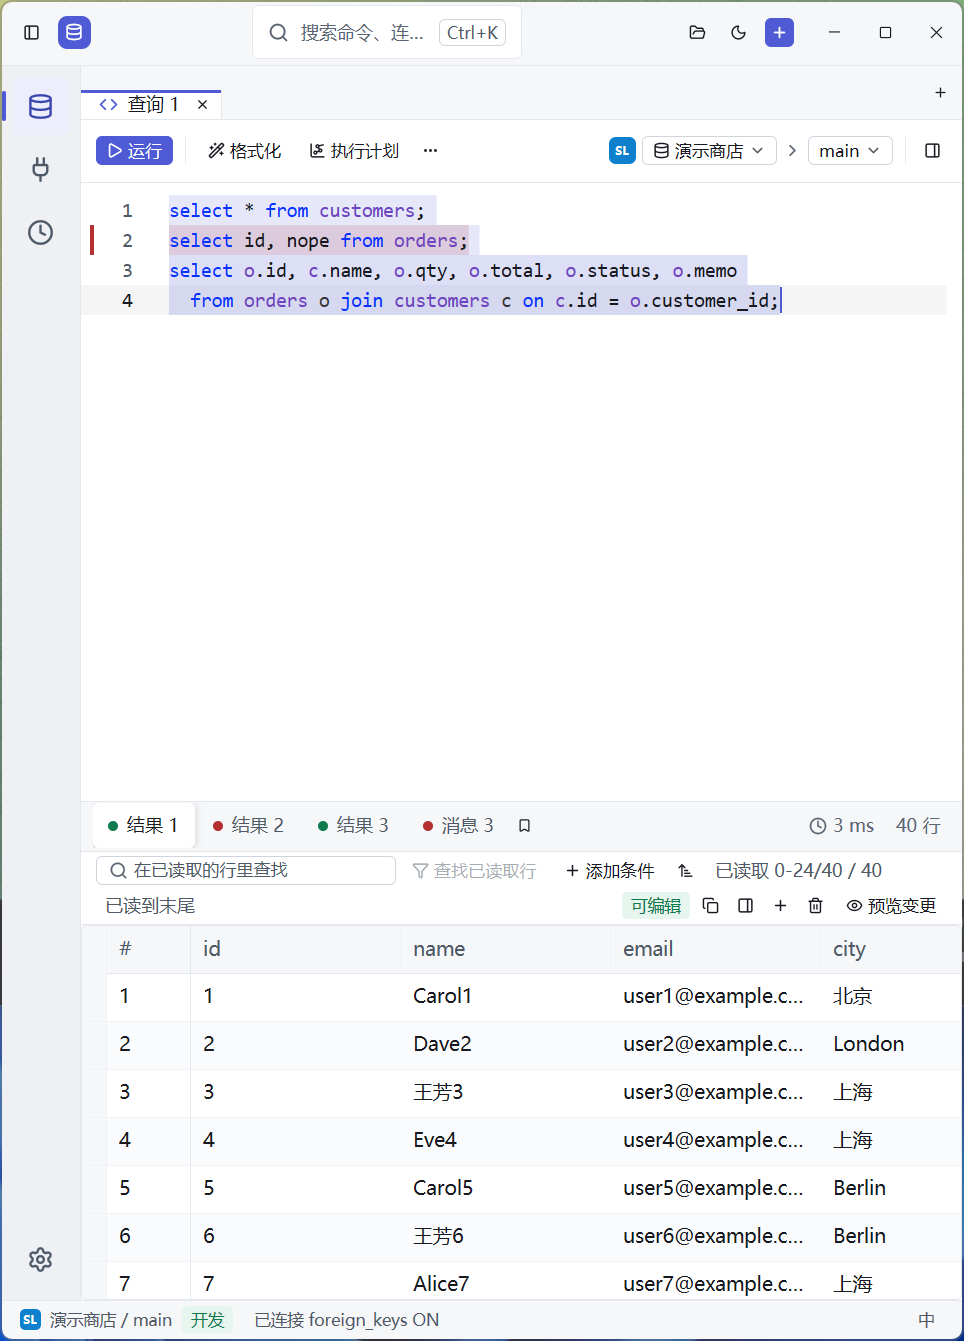
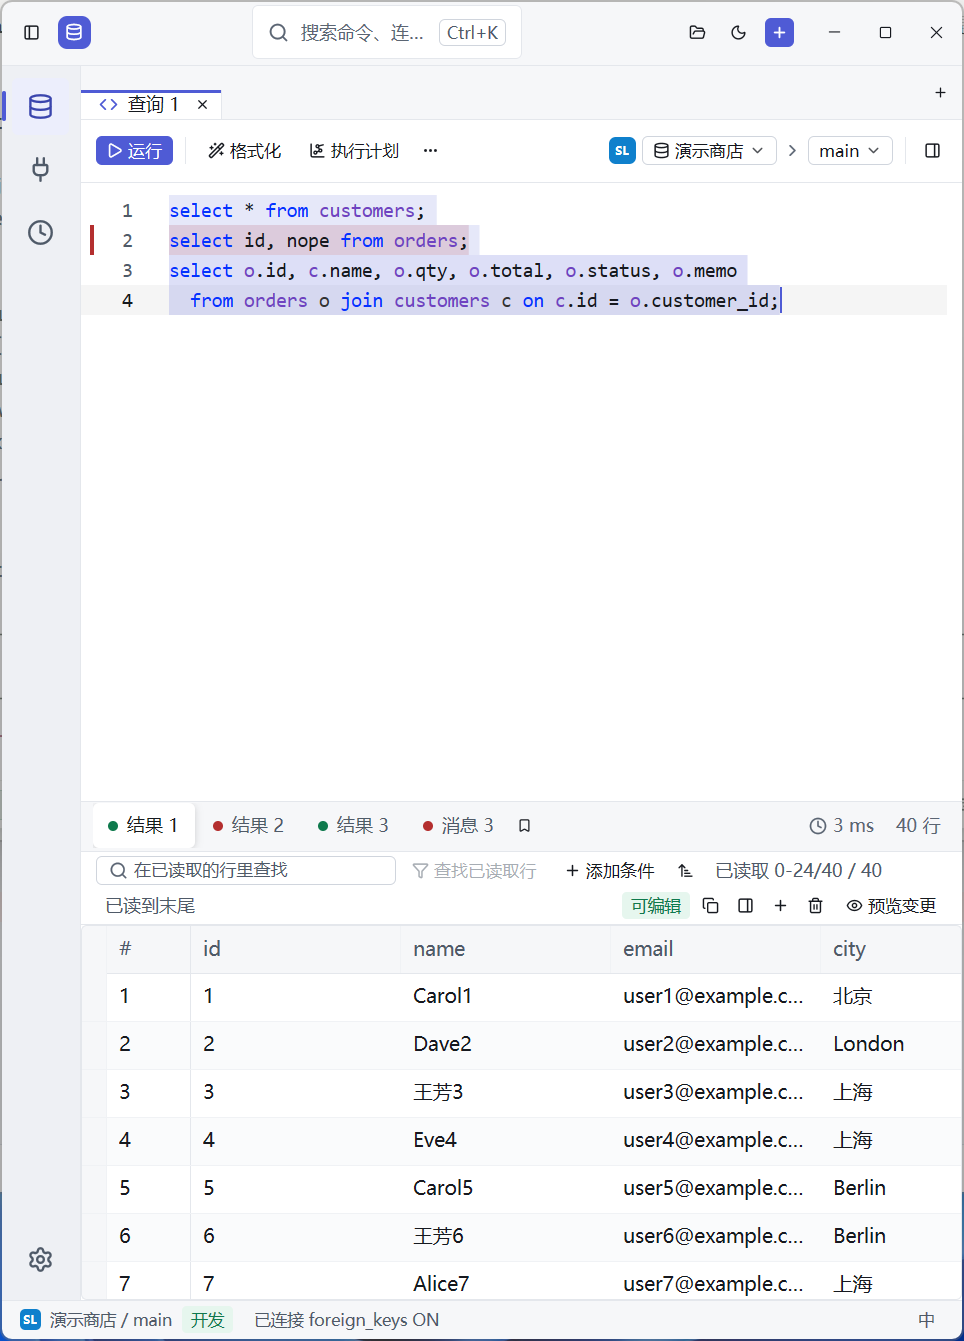
fix: 补齐 900/640 原生截图并修复三处窄宽布局
Sakullla-Task: T7
Sakullla-Attempt: T7-A6

Changed region(s): [[0.9959, 0.0, 1.0, 0.8867], [0.0, 0.0, 0.0311, 0.0306]]

diff --git a/src-tauri/src/app/shell/tests.rs b/src-tauri/src/app/shell/tests.rs
@@ -4171,6 +4171,16 @@ fn sqlite_notes_workbench(
     cx: &mut gpui_kit::TestAppContext,
     boot: bool,
 ) -> (gpui_kit::AnyWindowHandle, gpui_kit::Entity<super::view::Workbench>, std::path::PathBuf) {
+    sqlite_notes_workbench_sized(cx, boot, 1360., 800.)
+}
+
+/// 同 `sqlite_notes_workbench`，按指定窗口尺寸打开（窄宽要测真实的覆盖式侧栏）。
+fn sqlite_notes_workbench_sized(
+    cx: &mut gpui_kit::TestAppContext,
+    boot: bool,
+    width: f32,
+    height: f32,
+) -> (gpui_kit::AnyWindowHandle, gpui_kit::Entity<super::view::Workbench>, std::path::PathBuf) {
     cx.executor().allow_parking();
     let dir = std::env::temp_dir().join(format!("rillsql-shell-nav-{}", uuid::Uuid::new_v4()));
     std::fs::create_dir_all(&dir).unwrap();
@@ -4197,7 +4207,7 @@ fn sqlite_notes_workbench(
         });
     });
     let services = rx.recv_timeout(std::time::Duration::from_secs(30)).expect("sqlite setup");
-    let (window, view) = open_workbench(cx, services, boot);
+    let (window, view) = open_workbench_sized(cx, services, boot, width, height);
     (window, view, dir)
 }
 
@@ -6451,4 +6461,90 @@ fn custom_env_tags_never_show_a_dictionary_key() {
     assert_eq!(super::chrome::env_label(|key| text(Locale::En, key), "prod"), "Prod");
     assert_eq!(super::chrome::env_label(|key| text(Locale::ZhCn, key), "dev"), "开发");
     assert_eq!(super::chrome::env_label(|key| text(Locale::En, key), "t7-live"), "t7-live");
+}
+
+/// 640 宽时侧栏是盖在工作区上的覆盖层。原生截图发现右键树节点弹出的是下面编辑器的菜单
+/// （点击穿透了覆盖层）。覆盖层必须挡住鼠标：右键、左键都只到树，不到编辑器。
+#[gpui_kit::test]
+fn narrow_overlay_sidebar_keeps_tree_clicks_off_the_editor_beneath(cx: &mut gpui_kit::TestAppContext) {
+    use super::menus::MenuPlace;
+    let (window, view, dir) = sqlite_notes_workbench_sized(cx, true, 640., 900.);
+    wait_for_shell_ready(cx, window, &view);
+    let item = wait_for_nav_object(cx, window, &view, "item");
+    assert!(!item.is_empty(), "目录里没有读到 item");
+    let row = gpui_kit::SharedString::from(format!("nav-{item}"));
+    cx.update(|cx| view.update(cx, |view, cx| view.perform("new-query", cx)));
+    // 让 item 这一行真正画在覆盖式侧栏里：侧栏打开，连接与表分组展开（同 sidebar_mouse_paths 的做法）。
+    cx.update(|cx| {
+        view.update(cx, |view, cx| {
+            view.model
+                .connections
+                .status
+                .insert("notes".to_owned(), crate::app::views::connections::LinkStatus::Connected);
+            view.model.shell.sidebar_open = true;
+            view.model.nav.expand(&crate::catalog::hierarchy::connection_node_id("notes"));
+            let groups: Vec<String> = view
+                .model
+                .nav_rows_for("notes")
+                .into_iter()
+                .filter(|row| row.kind == crate::catalog::hierarchy::NavKind::Group)
+                .map(|row| row.id)
+                .collect();
+            for group in groups {
+                view.model.nav.expand(&group);
+            }
+            cx.notify();
+        })
+    });
+    cx.run_until_parked();
+    let shown = cx
+        .update_window(window, |_, window, cx| {
+            window.render_frame(cx);
+            window.try_find(row.clone()).is_some_and(|row| row.visible())
+        })
+        .unwrap();
+    assert!(shown, "item 行没有画出来");
+    let (overlay, over_editor) = cx
+        .update_window(window, |_, window, cx| {
+            window.render_frame(cx);
+            let row = window.find(row.clone()).bounds();
+            let editor = window.find("query-editor").bounds();
+            let centre = row.center();
+            (view.read(cx).model.painted().sidebar_overlay, editor.contains(&centre))
+        })
+        .unwrap();
+    assert!(overlay, "640 宽侧栏应是覆盖层");
+    assert!(over_editor, "测试前提：树行正好盖在编辑器上方");
+
+    cx.update_window(window, |_, window, cx| window.right_click(row.clone(), cx)).unwrap();
+    let place = cx.update(|cx| view.read(cx).model.menu.as_ref().map(|menu| menu.place));
+    assert_eq!(place, Some(MenuPlace::ObjectTree), "右键树节点要弹出对象树菜单，不能穿透成编辑器菜单");
+    let _ = std::fs::remove_dir_all(&dir);
+}
+
+/// 原生 640 截图发现连接页右侧空态的说明整行撑出面板，左边压到连接列表、右边被窗口裁掉。
+/// 三种宽度下说明都要在右侧面板里换行：不越过连接列表，也不越出窗口。
+#[gpui_kit::test]
+fn connections_empty_state_wraps_inside_its_panel_at_every_width(cx: &mut gpui_kit::TestAppContext) {
+    for width in [1360., 900., 640.] {
+        let dir = std::env::temp_dir().join(format!("rillsql-shell-conn-empty-{}", uuid::Uuid::new_v4()));
+        std::fs::create_dir_all(&dir).unwrap();
+        let (window, view) = open_workbench_sized(cx, services_at(&dir), false, width, 900.);
+        cx.update(|cx| view.update(cx, |view, cx| view.perform("connections", cx)));
+        let (detail, list_right, window_width) = cx
+            .update_window(window, |_, window, cx| {
+                window.render_frame(cx);
+                let details: Vec<_> = window.find_all("empty-state-detail").into_iter().filter(|detail| detail.visible()).collect();
+                assert_eq!(details.len(), 1, "{width}: 连接页应只有右侧一个空态说明");
+                let list = window.find("conn-new").bounds();
+                (details[0].bounds(), f32::from(list.origin.x + list.size.width), f32::from(window.find("workbench").bounds().size.width))
+            })
+            .unwrap();
+        let left = f32::from(detail.origin.x);
+        let right = f32::from(detail.origin.x + detail.size.width);
+        assert!(left >= list_right, "{width}: 空态说明左缘 {left} 压到了连接列表（右缘 {list_right}）");
+        assert!(right <= window_width + 0.5, "{width}: 空态说明右缘 {right} 越出窗口 {window_width}");
+        assert!(f32::from(detail.size.width) <= 360.5, "{width}: 说明最宽 360");
+        let _ = std::fs::remove_dir_all(&dir);
+    }
 }

diff --git a/src-tauri/src/app/views/mongo/mod.rs b/src-tauri/src/app/views/mongo/mod.rs
@@ -20,6 +20,10 @@ use crate::i18n::{self, Locale};
 use crate::mongo::docs::{CollectionSummary, DatabaseSummary, DocumentsPage, MongoDoc};
 
 const PAGE_LIMIT: u64 = 20;
+/// 文档表每列的最小宽度：窄窗口靠横向滚动，不把列压到只剩省略号。
+const DOC_COL_MIN: f32 = 120.;
+/// 行尾查看/复制/编辑/删除四个图标列的宽度。
+const DOC_ACTIONS_W: f32 = 124.;
 
 #[derive(Clone, Copy, Debug, PartialEq, Eq, Hash)]
 enum Field {
@@ -927,7 +931,9 @@ impl Render for MongoPane {
 
         // ---- 文档表
         let shown: Vec<String> = self.columns.iter().take(7).cloned().collect();
-        let mut table = div().id("mongo-docs").flex().flex_col().flex_1().min_h(px(0.)).overflow_y_scroll();
+        // 窄窗口下每列至少 120：不够宽就横向滚动，不把七列压成全是省略号。
+        let row_min_w = shown.len() as f32 * DOC_COL_MIN + DOC_ACTIONS_W + 20.;
+        let mut table = div().id("mongo-docs").flex().flex_col().flex_1().min_h(px(0.)).overflow_y_scroll().overflow_x_scroll();
         if !self.filter_error.is_empty() {
             table = table.child(div().mx(px(10.)).mt(px(10.)).px(px(12.)).py(px(8.)).rounded(px(Radius::PANEL)).bg(p.danger_soft).text_color(p.danger).text_size(px(TypeScale::SM)).child(SharedString::from(self.filter_error.clone())));
         }
@@ -936,17 +942,19 @@ impl Render for MongoPane {
             let detail = if self.collection.is_empty() { self.text("mongo.tab.needCollection") } else { String::new() };
             table = table.child(div().flex_1().flex().items_center().justify_center().child(kit::empty_state(IconName::Braces, SharedString::from(empty), SharedString::from(detail), &p)));
         } else {
-            let mut head = div().flex().h(px(m.bar_h() - 2.)).px(px(10.)).items_center().bg(p.chrome).border_b_1().border_color(p.line).text_size(px(TypeScale::XS)).text_color(p.text_faint);
+            let mut head = div().flex().min_w(px(row_min_w)).h(px(m.bar_h() - 2.)).px(px(10.)).items_center().bg(p.chrome).border_b_1().border_color(p.line).text_size(px(TypeScale::XS)).text_color(p.text_faint);
             for name in &shown {
                 head = head.child(div().flex_1().flex_basis(px(0.)).min_w(px(0.)).truncate().pr(px(8.)).child(SharedString::from(name.clone())));
             }
-            head = head.child(div().flex_none().w(px(124.)));
+            head = head.child(div().flex_none().w(px(DOC_ACTIONS_W)));
             table = table.child(head);
             for (index, doc) in self.documents.iter().take(PAGE_LIMIT as usize).enumerate() {
                 let mut row = div()
                     .id(SharedString::from(format!("mongo-row-{index}")))
+                    .test_support()
                     .group("mongo-row")
                     .flex()
+                    .min_w(px(row_min_w))
                     .min_h(px(m.row_h + 2.))
                     .px(px(10.))
                     .items_center()
@@ -972,7 +980,7 @@ impl Render for MongoPane {
                 row = row.child(
                     div()
                         .flex_none()
-                        .w(px(124.))
+                        .w(px(DOC_ACTIONS_W))
                         .flex()
                         .justify_end()
                         .gap(px(1.))
@@ -1186,6 +1194,58 @@ mod tests {
         assert_eq!(next_skip(0, 20, 1), 20);
         assert!(pretty_json(r#"{"a":1}"#).contains('\n'));
         assert_ne!(i18n::text(Locale::En, "mongo.tab.insert"), "mongo.tab.insert");
+    }
+
+    /// 窄窗口下文档表不能把每列压成省略号：列宽有下限，超出部分横向滚动。
+    #[gpui_kit::test]
+    fn narrow_pane_keeps_document_columns_readable(cx: &mut gpui_kit::TestAppContext) {
+        use gpui_kit::test::TestWindowExt;
+        use gpui_kit::AppContext as _;
+        let dir = std::env::temp_dir().join(format!("rillsql-mongo-narrow-{}", uuid::Uuid::new_v4()));
+        std::fs::create_dir_all(&dir).unwrap();
+        let services = std::sync::Arc::new(crate::application::AppServices::new(std::sync::Arc::new(
+            crate::connections::Service::new_for_test(dir.join("connections.sqlite")),
+        )));
+        cx.update(gpui_kit::init);
+        let (window, pane) = cx.update(|cx| {
+            let bounds = gpui_kit::Bounds {
+                origin: gpui_kit::Point::default(),
+                size: gpui_kit::size(gpui_kit::px(640.), gpui_kit::px(900.)),
+            };
+            let (window, pane) = gpui_kit::open_window(
+                gpui_kit::WindowOptions {
+                    window_bounds: Some(gpui_kit::WindowBounds::Windowed(bounds)),
+                    ..Default::default()
+                },
+                cx,
+                |_window, cx| cx.new(|_| MongoPane::new(services)),
+            )
+            .expect("mongo pane");
+            pane.update(cx, |pane, cx| {
+                pane.connection_id = "docs".into();
+                pane.connection_name = "文档".into();
+                pane.database = "app".into();
+                pane.collection = "orders".into();
+                pane.columns = vec!["_id".into(), "customer".into(), "status".into(), "total".into(), "memo".into(), "created".into(), "note".into()];
+                pane.documents = vec![MongoDoc {
+                    id_json: "\"1\"".into(),
+                    json: r#"{"_id":"1","customer":"c1","status":"active","total":17.5,"memo":null,"created":"2026-11-11","note":null}"#.into(),
+                }];
+                cx.notify();
+            });
+            (window, pane)
+        });
+        let row_w = cx
+            .update_window(window, |_, window, cx| {
+                window.render_frame(cx);
+                f32::from(window.find("mongo-row-0").bounds().size.width)
+            })
+            .unwrap();
+        let wanted = 7. * DOC_COL_MIN + DOC_ACTIONS_W;
+        assert!(row_w > 640., "窄窗口里一行要比窗口宽，交给横向滚动：{row_w}");
+        assert!(row_w >= wanted, "每列至少 {DOC_COL_MIN}、动作列 {DOC_ACTIONS_W}：{row_w} < {wanted}");
+        let _ = pane;
+        let _ = std::fs::remove_dir_all(&dir);
     }
 
     #[gpui_kit::test]

diff --git a/src-tauri/src/ui/kit.rs b/src-tauri/src/ui/kit.rs
@@ -586,6 +586,9 @@ pub fn empty_state(icon_name: IconName, heading: impl Into<SharedString>, detail
         .justify_center()
         .gap(px(10.))
         .p(px(24.))
+        // 窄面板里也要能收窄：GPUI 文本的最小内容宽是整行宽，不写 min_w(0) 就会撑出面板。
+        .min_w(px(0.))
+        .max_w_full()
         .child(
             div()
                 .size(px(44.))
@@ -597,7 +600,18 @@ pub fn empty_state(icon_name: IconName, heading: impl Into<SharedString>, detail
                 .child(icon(icon_name, 22., p.accent_text)),
         )
         .child(title(heading, TypeScale::MD, p))
-        .child(div().max_w(px(360.)).text_center().text_size(px(TypeScale::SM)).text_color(p.text_muted).child(detail.into()))
+        .child(
+            // 说明文字按面板宽换行（最多 360），不按整行宽撑开。
+            div()
+                .id("empty-state-detail")
+                .test_support()
+                .w_full()
+                .max_w(px(360.))
+                .text_center()
+                .text_size(px(TypeScale::SM))
+                .text_color(p.text_muted)
+                .child(detail.into()),
+        )
 }
 
 /// 加载态：居中的小号转圈 + 一行说明（规范 S8.5 三种状态之一）。加载优先于空态。
@@ -623,6 +637,9 @@ pub fn error_state(heading: impl Into<SharedString>, detail: impl Into<SharedStr
         .justify_center()
         .gap(px(10.))
         .p(px(24.))
+        // 窄面板里也要能收窄：GPUI 文本的最小内容宽是整行宽，不写 min_w(0) 就会撑出面板。
+        .min_w(px(0.))
+        .max_w_full()
         .child(
             div()
                 .size(px(44.))
@@ -634,7 +651,18 @@ pub fn error_state(heading: impl Into<SharedString>, detail: impl Into<SharedStr
                 .child(icon(IconName::CircleAlert, 22., p.danger)),
         )
         .child(title(heading, TypeScale::MD, p))
-        .child(div().max_w(px(360.)).text_center().text_size(px(TypeScale::SM)).text_color(p.text_muted).child(detail.into()))
+        .child(
+            // 说明文字按面板宽换行（最多 360），不按整行宽撑开。
+            div()
+                .id("error-state-detail")
+                .test_support()
+                .w_full()
+                .max_w(px(360.))
+                .text_center()
+                .text_size(px(TypeScale::SM))
+                .text_color(p.text_muted)
+                .child(detail.into()),
+        )
 }
 
 /// 键盘提示 kbd。

diff --git a/src-tauri/src/app/shell/chrome.rs b/src-tauri/src/app/shell/chrome.rs
@@ -151,6 +151,9 @@ impl Workbench {
                                 .bottom_0()
                                 .left(px(RAIL_W))
                                 .shadow_lg()
+                                // 覆盖式侧栏盖在工作区上方：鼠标事件只到侧栏，不能穿透到下面的编辑器/表格
+                                // （否则右键树节点会弹出编辑器菜单，点击也会落到编辑器上）。
+                                .occlude()
                                 .child(sidebar),
                         )
                     }),
